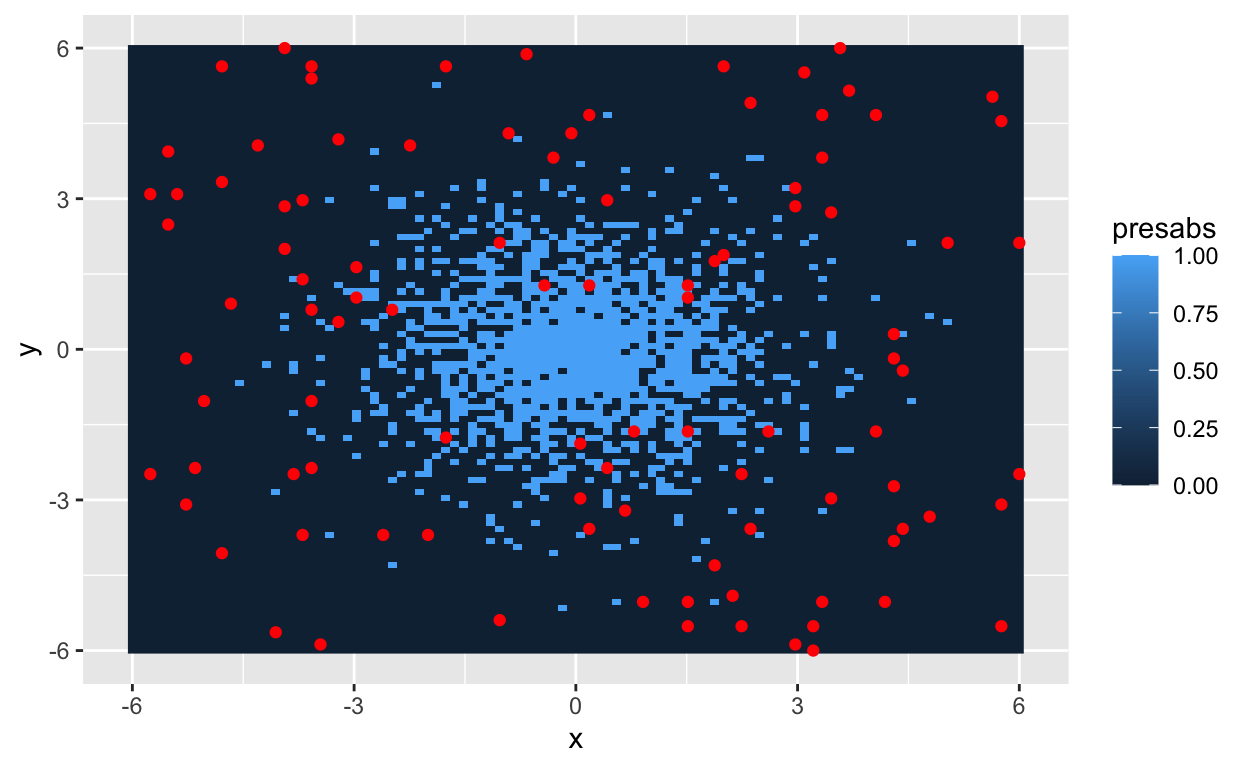
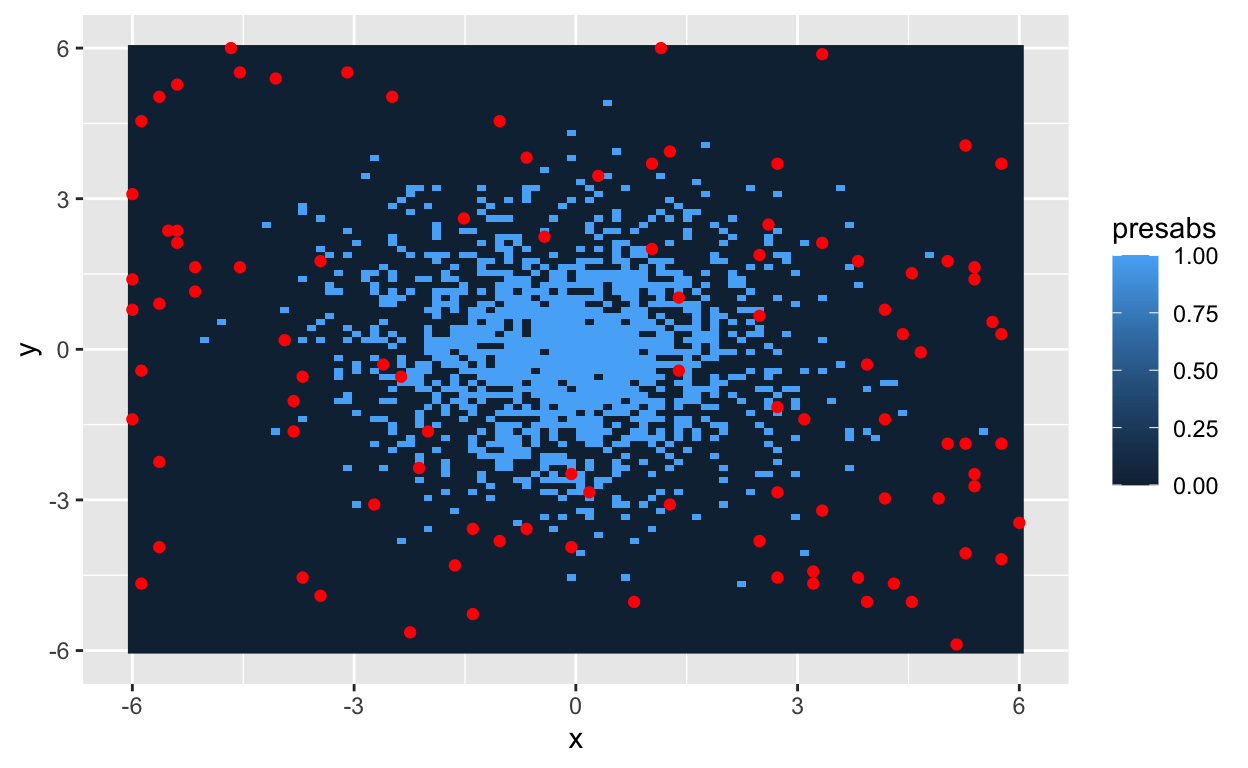
this time with code whoops

diff --git a/_posts/2022-06-15-detection-in-space/detection-in-space.html b/_posts/2022-06-15-detection-in-space/detection-in-space.html
@@ -1479,17 +1479,83 @@ code span.wa { color: #5e5e5e; font-style: italic; } /* Warning */
 
 <div class="d-article">
 <div class="layout-chunk" data-layout="l-body">
-<p><img src="detection-in-space_files/figure-html5/unnamed-chunk-1-1.png" width="624" /><img src="detection-in-space_files/figure-html5/unnamed-chunk-1-2.png" width="624" /><img src="detection-in-space_files/figure-html5/unnamed-chunk-1-3.png" width="624" /></p>
+<div class="sourceCode">
+<pre class="sourceCode r"><code class="sourceCode r"><span class='fu'><a href='https://rdrr.io/r/graphics/curve.html'>curve</a></span><span class='op'>(</span><span class='fu'><a href='https://rdrr.io/r/base/Log.html'>exp</a></span><span class='op'>(</span><span class='op'>-</span><span class='fl'>.2</span><span class='op'>*</span><span class='op'>(</span><span class='va'>x</span><span class='op'>)</span><span class='op'>^</span><span class='fl'>2</span><span class='op'>)</span>, xlim <span class='op'>=</span> <span class='fu'><a href='https://rdrr.io/r/base/c.html'>c</a></span><span class='op'>(</span><span class='op'>-</span><span class='fl'>5</span>, <span class='fl'>5</span><span class='op'>)</span><span class='op'>)</span>
+</code></pre>
+</div>
+<img src="detection-in-space_files/figure-html5/unnamed-chunk-1-1.png" width="624" />
+<div class="sourceCode">
+<pre class="sourceCode r"><code class="sourceCode r"><span class='va'>env</span> <span class='op'>&lt;-</span> <span class='fu'><a href='https://rdrr.io/r/base/seq.html'>seq</a></span><span class='op'>(</span>from <span class='op'>=</span> <span class='op'>-</span><span class='fl'>6</span>, to <span class='op'>=</span> <span class='fl'>6</span>, length.out <span class='op'>=</span> <span class='fl'>100</span><span class='op'>)</span>
+<span class='va'>prob_occ_1d</span> <span class='op'>&lt;-</span> <span class='fu'><a href='https://rdrr.io/r/base/Log.html'>exp</a></span><span class='op'>(</span><span class='op'>-</span><span class='fl'>.2</span><span class='op'>*</span><span class='op'>(</span><span class='va'>env</span><span class='op'>)</span><span class='op'>^</span><span class='fl'>2</span><span class='op'>)</span>
+<span class='va'>y</span> <span class='op'>&lt;-</span> <span class='fu'><a href='https://rdrr.io/r/stats/Binomial.html'>rbinom</a></span><span class='op'>(</span><span class='fl'>100</span>, <span class='fl'>1</span>, prob <span class='op'>=</span> <span class='va'>prob_occ_1d</span><span class='op'>)</span>
+
+<span class='fu'><a href='https://rdrr.io/r/graphics/plot.default.html'>plot</a></span><span class='op'>(</span><span class='va'>env</span>, <span class='va'>y</span><span class='op'>)</span>
+
+<span class='kw'><a href='https://rdrr.io/r/base/library.html'>library</a></span><span class='op'>(</span><span class='va'><a href='https://tidyverse.tidyverse.org'>tidyverse</a></span><span class='op'>)</span>
+</code></pre>
+</div>
+<img src="detection-in-space_files/figure-html5/unnamed-chunk-1-2.png" width="624" />
+<div class="sourceCode">
+<pre class="sourceCode r"><code class="sourceCode r"><span class='va'>env_grid</span> <span class='op'>&lt;-</span> <span class='fu'>expand_grid</span><span class='op'>(</span>x <span class='op'>=</span> <span class='va'>env</span>,
+            y <span class='op'>=</span> <span class='va'>env</span><span class='op'>)</span> |&gt; 
+  <span class='fu'>mutate</span><span class='op'>(</span>prob_occ <span class='op'>=</span> <span class='fu'><a href='https://rdrr.io/r/base/Log.html'>exp</a></span><span class='op'>(</span><span class='op'>-</span><span class='fl'>.2</span><span class='op'>*</span><span class='op'>(</span><span class='va'>x</span><span class='op'>)</span><span class='op'>^</span><span class='fl'>2</span><span class='op'>)</span> <span class='op'>*</span>  <span class='fu'><a href='https://rdrr.io/r/base/Log.html'>exp</a></span><span class='op'>(</span><span class='op'>-</span><span class='fl'>.2</span><span class='op'>*</span><span class='op'>(</span><span class='va'>y</span><span class='op'>)</span><span class='op'>^</span><span class='fl'>2</span><span class='op'>)</span><span class='op'>)</span>
+
+<span class='va'>env_grid</span> |&gt; 
+  <span class='fu'>ggplot</span><span class='op'>(</span><span class='fu'>aes</span><span class='op'>(</span> x <span class='op'>=</span> <span class='va'>x</span>, y <span class='op'>=</span> <span class='va'>y</span>, fill <span class='op'>=</span> <span class='va'>prob_occ</span><span class='op'>)</span><span class='op'>)</span> <span class='op'>+</span> <span class='fu'>geom_raster</span><span class='op'>(</span><span class='op'>)</span>
+</code></pre>
+</div>
+<p><img src="detection-in-space_files/figure-html5/unnamed-chunk-1-3.png" width="624" /></p>
 </div>
 <div class="layout-chunk" data-layout="l-body">
+<div class="sourceCode">
+<pre class="sourceCode r"><code class="sourceCode r"><span class='va'>env_sampling</span> <span class='op'>&lt;-</span> <span class='va'>env_grid</span> |&gt; 
+  <span class='fu'>mutate</span><span class='op'>(</span>presabs <span class='op'>=</span> <span class='fu'><a href='https://rdrr.io/r/stats/Binomial.html'>rbinom</a></span><span class='op'>(</span>n <span class='op'>=</span> <span class='fu'><a href='https://rdrr.io/r/base/nrow.html'>nrow</a></span><span class='op'>(</span><span class='va'>env_grid</span><span class='op'>)</span>, size <span class='op'>=</span> <span class='fl'>1</span>, prob <span class='op'>=</span> <span class='va'>prob_occ</span><span class='op'>)</span>,
+         is_samp <span class='op'>=</span> <span class='fu'><a href='https://rdrr.io/r/stats/Binomial.html'>rbinom</a></span><span class='op'>(</span>n <span class='op'>=</span> <span class='fu'><a href='https://rdrr.io/r/base/nrow.html'>nrow</a></span><span class='op'>(</span><span class='va'>env_grid</span><span class='op'>)</span>, size <span class='op'>=</span> <span class='fl'>1</span>, prob <span class='op'>=</span> <span class='fl'>.1</span><span class='op'>)</span><span class='op'>)</span>
+
+<span class='va'>env_sampling</span> |&gt; 
+  <span class='fu'>ggplot</span><span class='op'>(</span><span class='fu'>aes</span><span class='op'>(</span>x <span class='op'>=</span> <span class='va'>x</span>, y <span class='op'>=</span> <span class='va'>y</span>, fill <span class='op'>=</span> <span class='va'>presabs</span><span class='op'>)</span><span class='op'>)</span> <span class='op'>+</span> <span class='fu'>geom_raster</span><span class='op'>(</span><span class='op'>)</span> <span class='op'>+</span> 
+  <span class='fu'>geom_point</span><span class='op'>(</span>col <span class='op'>=</span> <span class='st'>"red"</span>, data <span class='op'>=</span> <span class='va'>env_sampling</span> |&gt; 
+               <span class='fu'><a href='https://rdrr.io/r/stats/filter.html'>filter</a></span><span class='op'>(</span><span class='va'>is_samp</span> <span class='op'>==</span> <span class='fl'>1</span><span class='op'>)</span><span class='op'>)</span>
+</code></pre>
+</div>
 <p><img src="detection-in-space_files/figure-html5/unnamed-chunk-2-1.png" width="624" /></p>
 </div>
 <p>Sample, but keep effort the same!</p>
 <div class="layout-chunk" data-layout="l-body">
+<div class="sourceCode">
+<pre class="sourceCode r"><code class="sourceCode r"><span class='va'>nsamp</span> <span class='op'>&lt;-</span> <span class='fl'>40</span>
+<span class='va'>randsamp</span> <span class='op'>&lt;-</span> <span class='fu'><a href='https://rdrr.io/r/base/sample.html'>sample</a></span><span class='op'>(</span><span class='fl'>1</span><span class='op'>:</span><span class='fu'><a href='https://rdrr.io/r/base/nrow.html'>nrow</a></span><span class='op'>(</span><span class='va'>env_sampling</span><span class='op'>)</span>, size <span class='op'>=</span> <span class='fl'>100</span>, replace <span class='op'>=</span> <span class='cn'>FALSE</span><span class='op'>)</span>
+
+<span class='va'>env_samp_effort_control</span> <span class='op'>&lt;-</span> <span class='va'>env_sampling</span> |&gt; 
+  <span class='fu'>rownames_to_column</span><span class='op'>(</span><span class='st'>"rownum"</span><span class='op'>)</span> |&gt; 
+  <span class='fu'>mutate</span><span class='op'>(</span>is_samp_better <span class='op'>=</span> <span class='fu'><a href='https://rdrr.io/r/base/numeric.html'>as.numeric</a></span><span class='op'>(</span><span class='va'>rownum</span> <span class='op'>%in%</span> <span class='va'>randsamp</span><span class='op'>)</span><span class='op'>)</span>
+
+<span class='va'>env_samp_effort_control</span> |&gt;
+  <span class='fu'>ggplot</span><span class='op'>(</span><span class='fu'>aes</span><span class='op'>(</span>x <span class='op'>=</span> <span class='va'>x</span>, y <span class='op'>=</span> <span class='va'>y</span>, fill <span class='op'>=</span> <span class='va'>presabs</span><span class='op'>)</span><span class='op'>)</span> <span class='op'>+</span> 
+  <span class='fu'>geom_raster</span><span class='op'>(</span><span class='op'>)</span> <span class='op'>+</span> 
+  <span class='fu'>geom_point</span><span class='op'>(</span>col <span class='op'>=</span> <span class='st'>"red"</span>, data <span class='op'>=</span> <span class='va'>env_samp_effort_control</span> |&gt; 
+               <span class='fu'><a href='https://rdrr.io/r/stats/filter.html'>filter</a></span><span class='op'>(</span><span class='va'>is_samp_better</span> <span class='op'>==</span> <span class='fl'>1</span><span class='op'>)</span><span class='op'>)</span>
+</code></pre>
+</div>
 <p><img src="detection-in-space_files/figure-html5/unnamed-chunk-3-1.png" width="624" /></p>
 </div>
 <p>sample NEGATIVELY correlated with the environment (birds that like deep forest)</p>
 <div class="layout-chunk" data-layout="l-body">
+<div class="sourceCode">
+<pre class="sourceCode r"><code class="sourceCode r"><span class='va'>nsamp</span> <span class='op'>&lt;-</span> <span class='fl'>40</span>
+<span class='va'>inverse_samp</span> <span class='op'>&lt;-</span> <span class='fu'><a href='https://rdrr.io/r/base/sample.html'>sample</a></span><span class='op'>(</span><span class='fl'>1</span><span class='op'>:</span><span class='fu'><a href='https://rdrr.io/r/base/nrow.html'>nrow</a></span><span class='op'>(</span><span class='va'>env_sampling</span><span class='op'>)</span>, size <span class='op'>=</span> <span class='fl'>100</span>, replace <span class='op'>=</span> <span class='cn'>FALSE</span>,
+                   prob <span class='op'>=</span> <span class='fl'>1</span><span class='op'>-</span><span class='va'>env_samp_effort_control</span><span class='op'>$</span><span class='va'>prob_occ</span><span class='op'>)</span>
+
+<span class='va'>env_inverse</span> <span class='op'>&lt;-</span> <span class='va'>env_samp_effort_control</span> |&gt; 
+  <span class='fu'>mutate</span><span class='op'>(</span>inverse_samp <span class='op'>=</span> <span class='fu'><a href='https://rdrr.io/r/base/numeric.html'>as.numeric</a></span><span class='op'>(</span><span class='va'>rownum</span> <span class='op'>%in%</span> <span class='va'>inverse_samp</span><span class='op'>)</span><span class='op'>)</span>
+
+<span class='va'>env_inverse</span> |&gt; 
+  <span class='fu'>ggplot</span><span class='op'>(</span><span class='fu'>aes</span><span class='op'>(</span>x <span class='op'>=</span> <span class='va'>x</span>, y <span class='op'>=</span> <span class='va'>y</span>, fill <span class='op'>=</span> <span class='va'>presabs</span><span class='op'>)</span><span class='op'>)</span> <span class='op'>+</span> 
+  <span class='fu'>geom_raster</span><span class='op'>(</span><span class='op'>)</span> <span class='op'>+</span> 
+  <span class='fu'>geom_point</span><span class='op'>(</span>col <span class='op'>=</span> <span class='st'>"red"</span>, data <span class='op'>=</span> <span class='va'>env_inverse</span> |&gt; 
+               <span class='fu'><a href='https://rdrr.io/r/stats/filter.html'>filter</a></span><span class='op'>(</span><span class='va'>inverse_samp</span> <span class='op'>==</span> <span class='fl'>1</span><span class='op'>)</span><span class='op'>)</span>
+</code></pre>
+</div>
 <p><img src="detection-in-space_files/figure-html5/unnamed-chunk-4-1.png" width="624" /></p>
 </div>
 <div class="sourceCode" id="cb1"><pre class="sourceCode r distill-force-highlighting-css"><code class="sourceCode r"></code></pre></div>

diff --git a/docs/posts/2022-06-15-detection-in-space/index.html b/docs/posts/2022-06-15-detection-in-space/index.html
@@ -2099,17 +2099,83 @@ document.addEventListener('DOMContentLoaded', function() {
 
 <div class="d-article">
 <div class="layout-chunk" data-layout="l-body">
-<p><img src="detection-in-space_files/figure-html5/unnamed-chunk-1-1.png" width="624" /><img src="detection-in-space_files/figure-html5/unnamed-chunk-1-2.png" width="624" /><img src="detection-in-space_files/figure-html5/unnamed-chunk-1-3.png" width="624" /></p>
+<div class="sourceCode">
+<pre class="sourceCode r"><code class="sourceCode r"><span class='fu'><a href='https://rdrr.io/r/graphics/curve.html'>curve</a></span><span class='op'>(</span><span class='fu'><a href='https://rdrr.io/r/base/Log.html'>exp</a></span><span class='op'>(</span><span class='op'>-</span><span class='fl'>.2</span><span class='op'>*</span><span class='op'>(</span><span class='va'>x</span><span class='op'>)</span><span class='op'>^</span><span class='fl'>2</span><span class='op'>)</span>, xlim <span class='op'>=</span> <span class='fu'><a href='https://rdrr.io/r/base/c.html'>c</a></span><span class='op'>(</span><span class='op'>-</span><span class='fl'>5</span>, <span class='fl'>5</span><span class='op'>)</span><span class='op'>)</span>
+</code></pre>
+</div>
+<img src="detection-in-space_files/figure-html5/unnamed-chunk-1-1.png" width="624" />
+<div class="sourceCode">
+<pre class="sourceCode r"><code class="sourceCode r"><span class='va'>env</span> <span class='op'>&lt;-</span> <span class='fu'><a href='https://rdrr.io/r/base/seq.html'>seq</a></span><span class='op'>(</span>from <span class='op'>=</span> <span class='op'>-</span><span class='fl'>6</span>, to <span class='op'>=</span> <span class='fl'>6</span>, length.out <span class='op'>=</span> <span class='fl'>100</span><span class='op'>)</span>
+<span class='va'>prob_occ_1d</span> <span class='op'>&lt;-</span> <span class='fu'><a href='https://rdrr.io/r/base/Log.html'>exp</a></span><span class='op'>(</span><span class='op'>-</span><span class='fl'>.2</span><span class='op'>*</span><span class='op'>(</span><span class='va'>env</span><span class='op'>)</span><span class='op'>^</span><span class='fl'>2</span><span class='op'>)</span>
+<span class='va'>y</span> <span class='op'>&lt;-</span> <span class='fu'><a href='https://rdrr.io/r/stats/Binomial.html'>rbinom</a></span><span class='op'>(</span><span class='fl'>100</span>, <span class='fl'>1</span>, prob <span class='op'>=</span> <span class='va'>prob_occ_1d</span><span class='op'>)</span>
+
+<span class='fu'><a href='https://rdrr.io/r/graphics/plot.default.html'>plot</a></span><span class='op'>(</span><span class='va'>env</span>, <span class='va'>y</span><span class='op'>)</span>
+
+<span class='kw'><a href='https://rdrr.io/r/base/library.html'>library</a></span><span class='op'>(</span><span class='va'><a href='https://tidyverse.tidyverse.org'>tidyverse</a></span><span class='op'>)</span>
+</code></pre>
+</div>
+<img src="detection-in-space_files/figure-html5/unnamed-chunk-1-2.png" width="624" />
+<div class="sourceCode">
+<pre class="sourceCode r"><code class="sourceCode r"><span class='va'>env_grid</span> <span class='op'>&lt;-</span> <span class='fu'>expand_grid</span><span class='op'>(</span>x <span class='op'>=</span> <span class='va'>env</span>,
+            y <span class='op'>=</span> <span class='va'>env</span><span class='op'>)</span> |&gt; 
+  <span class='fu'>mutate</span><span class='op'>(</span>prob_occ <span class='op'>=</span> <span class='fu'><a href='https://rdrr.io/r/base/Log.html'>exp</a></span><span class='op'>(</span><span class='op'>-</span><span class='fl'>.2</span><span class='op'>*</span><span class='op'>(</span><span class='va'>x</span><span class='op'>)</span><span class='op'>^</span><span class='fl'>2</span><span class='op'>)</span> <span class='op'>*</span>  <span class='fu'><a href='https://rdrr.io/r/base/Log.html'>exp</a></span><span class='op'>(</span><span class='op'>-</span><span class='fl'>.2</span><span class='op'>*</span><span class='op'>(</span><span class='va'>y</span><span class='op'>)</span><span class='op'>^</span><span class='fl'>2</span><span class='op'>)</span><span class='op'>)</span>
+
+<span class='va'>env_grid</span> |&gt; 
+  <span class='fu'>ggplot</span><span class='op'>(</span><span class='fu'>aes</span><span class='op'>(</span> x <span class='op'>=</span> <span class='va'>x</span>, y <span class='op'>=</span> <span class='va'>y</span>, fill <span class='op'>=</span> <span class='va'>prob_occ</span><span class='op'>)</span><span class='op'>)</span> <span class='op'>+</span> <span class='fu'>geom_raster</span><span class='op'>(</span><span class='op'>)</span>
+</code></pre>
+</div>
+<p><img src="detection-in-space_files/figure-html5/unnamed-chunk-1-3.png" width="624" /></p>
 </div>
 <div class="layout-chunk" data-layout="l-body">
+<div class="sourceCode">
+<pre class="sourceCode r"><code class="sourceCode r"><span class='va'>env_sampling</span> <span class='op'>&lt;-</span> <span class='va'>env_grid</span> |&gt; 
+  <span class='fu'>mutate</span><span class='op'>(</span>presabs <span class='op'>=</span> <span class='fu'><a href='https://rdrr.io/r/stats/Binomial.html'>rbinom</a></span><span class='op'>(</span>n <span class='op'>=</span> <span class='fu'><a href='https://rdrr.io/r/base/nrow.html'>nrow</a></span><span class='op'>(</span><span class='va'>env_grid</span><span class='op'>)</span>, size <span class='op'>=</span> <span class='fl'>1</span>, prob <span class='op'>=</span> <span class='va'>prob_occ</span><span class='op'>)</span>,
+         is_samp <span class='op'>=</span> <span class='fu'><a href='https://rdrr.io/r/stats/Binomial.html'>rbinom</a></span><span class='op'>(</span>n <span class='op'>=</span> <span class='fu'><a href='https://rdrr.io/r/base/nrow.html'>nrow</a></span><span class='op'>(</span><span class='va'>env_grid</span><span class='op'>)</span>, size <span class='op'>=</span> <span class='fl'>1</span>, prob <span class='op'>=</span> <span class='fl'>.1</span><span class='op'>)</span><span class='op'>)</span>
+
+<span class='va'>env_sampling</span> |&gt; 
+  <span class='fu'>ggplot</span><span class='op'>(</span><span class='fu'>aes</span><span class='op'>(</span>x <span class='op'>=</span> <span class='va'>x</span>, y <span class='op'>=</span> <span class='va'>y</span>, fill <span class='op'>=</span> <span class='va'>presabs</span><span class='op'>)</span><span class='op'>)</span> <span class='op'>+</span> <span class='fu'>geom_raster</span><span class='op'>(</span><span class='op'>)</span> <span class='op'>+</span> 
+  <span class='fu'>geom_point</span><span class='op'>(</span>col <span class='op'>=</span> <span class='st'>"red"</span>, data <span class='op'>=</span> <span class='va'>env_sampling</span> |&gt; 
+               <span class='fu'><a href='https://rdrr.io/r/stats/filter.html'>filter</a></span><span class='op'>(</span><span class='va'>is_samp</span> <span class='op'>==</span> <span class='fl'>1</span><span class='op'>)</span><span class='op'>)</span>
+</code></pre>
+</div>
 <p><img src="detection-in-space_files/figure-html5/unnamed-chunk-2-1.png" width="624" /></p>
 </div>
 <p>Sample, but keep effort the same!</p>
 <div class="layout-chunk" data-layout="l-body">
+<div class="sourceCode">
+<pre class="sourceCode r"><code class="sourceCode r"><span class='va'>nsamp</span> <span class='op'>&lt;-</span> <span class='fl'>40</span>
+<span class='va'>randsamp</span> <span class='op'>&lt;-</span> <span class='fu'><a href='https://rdrr.io/r/base/sample.html'>sample</a></span><span class='op'>(</span><span class='fl'>1</span><span class='op'>:</span><span class='fu'><a href='https://rdrr.io/r/base/nrow.html'>nrow</a></span><span class='op'>(</span><span class='va'>env_sampling</span><span class='op'>)</span>, size <span class='op'>=</span> <span class='fl'>100</span>, replace <span class='op'>=</span> <span class='cn'>FALSE</span><span class='op'>)</span>
+
+<span class='va'>env_samp_effort_control</span> <span class='op'>&lt;-</span> <span class='va'>env_sampling</span> |&gt; 
+  <span class='fu'>rownames_to_column</span><span class='op'>(</span><span class='st'>"rownum"</span><span class='op'>)</span> |&gt; 
+  <span class='fu'>mutate</span><span class='op'>(</span>is_samp_better <span class='op'>=</span> <span class='fu'><a href='https://rdrr.io/r/base/numeric.html'>as.numeric</a></span><span class='op'>(</span><span class='va'>rownum</span> <span class='op'>%in%</span> <span class='va'>randsamp</span><span class='op'>)</span><span class='op'>)</span>
+
+<span class='va'>env_samp_effort_control</span> |&gt;
+  <span class='fu'>ggplot</span><span class='op'>(</span><span class='fu'>aes</span><span class='op'>(</span>x <span class='op'>=</span> <span class='va'>x</span>, y <span class='op'>=</span> <span class='va'>y</span>, fill <span class='op'>=</span> <span class='va'>presabs</span><span class='op'>)</span><span class='op'>)</span> <span class='op'>+</span> 
+  <span class='fu'>geom_raster</span><span class='op'>(</span><span class='op'>)</span> <span class='op'>+</span> 
+  <span class='fu'>geom_point</span><span class='op'>(</span>col <span class='op'>=</span> <span class='st'>"red"</span>, data <span class='op'>=</span> <span class='va'>env_samp_effort_control</span> |&gt; 
+               <span class='fu'><a href='https://rdrr.io/r/stats/filter.html'>filter</a></span><span class='op'>(</span><span class='va'>is_samp_better</span> <span class='op'>==</span> <span class='fl'>1</span><span class='op'>)</span><span class='op'>)</span>
+</code></pre>
+</div>
 <p><img src="detection-in-space_files/figure-html5/unnamed-chunk-3-1.png" width="624" /></p>
 </div>
 <p>sample NEGATIVELY correlated with the environment (birds that like deep forest)</p>
 <div class="layout-chunk" data-layout="l-body">
+<div class="sourceCode">
+<pre class="sourceCode r"><code class="sourceCode r"><span class='va'>nsamp</span> <span class='op'>&lt;-</span> <span class='fl'>40</span>
+<span class='va'>inverse_samp</span> <span class='op'>&lt;-</span> <span class='fu'><a href='https://rdrr.io/r/base/sample.html'>sample</a></span><span class='op'>(</span><span class='fl'>1</span><span class='op'>:</span><span class='fu'><a href='https://rdrr.io/r/base/nrow.html'>nrow</a></span><span class='op'>(</span><span class='va'>env_sampling</span><span class='op'>)</span>, size <span class='op'>=</span> <span class='fl'>100</span>, replace <span class='op'>=</span> <span class='cn'>FALSE</span>,
+                   prob <span class='op'>=</span> <span class='fl'>1</span><span class='op'>-</span><span class='va'>env_samp_effort_control</span><span class='op'>$</span><span class='va'>prob_occ</span><span class='op'>)</span>
+
+<span class='va'>env_inverse</span> <span class='op'>&lt;-</span> <span class='va'>env_samp_effort_control</span> |&gt; 
+  <span class='fu'>mutate</span><span class='op'>(</span>inverse_samp <span class='op'>=</span> <span class='fu'><a href='https://rdrr.io/r/base/numeric.html'>as.numeric</a></span><span class='op'>(</span><span class='va'>rownum</span> <span class='op'>%in%</span> <span class='va'>inverse_samp</span><span class='op'>)</span><span class='op'>)</span>
+
+<span class='va'>env_inverse</span> |&gt; 
+  <span class='fu'>ggplot</span><span class='op'>(</span><span class='fu'>aes</span><span class='op'>(</span>x <span class='op'>=</span> <span class='va'>x</span>, y <span class='op'>=</span> <span class='va'>y</span>, fill <span class='op'>=</span> <span class='va'>presabs</span><span class='op'>)</span><span class='op'>)</span> <span class='op'>+</span> 
+  <span class='fu'>geom_raster</span><span class='op'>(</span><span class='op'>)</span> <span class='op'>+</span> 
+  <span class='fu'>geom_point</span><span class='op'>(</span>col <span class='op'>=</span> <span class='st'>"red"</span>, data <span class='op'>=</span> <span class='va'>env_inverse</span> |&gt; 
+               <span class='fu'><a href='https://rdrr.io/r/stats/filter.html'>filter</a></span><span class='op'>(</span><span class='va'>inverse_samp</span> <span class='op'>==</span> <span class='fl'>1</span><span class='op'>)</span><span class='op'>)</span>
+</code></pre>
+</div>
 <p><img src="detection-in-space_files/figure-html5/unnamed-chunk-4-1.png" width="624" /></p>
 </div>
 <div class="sourceCode" id="cb1"><pre class="sourceCode r distill-force-highlighting-css"><code class="sourceCode r"></code></pre></div>
